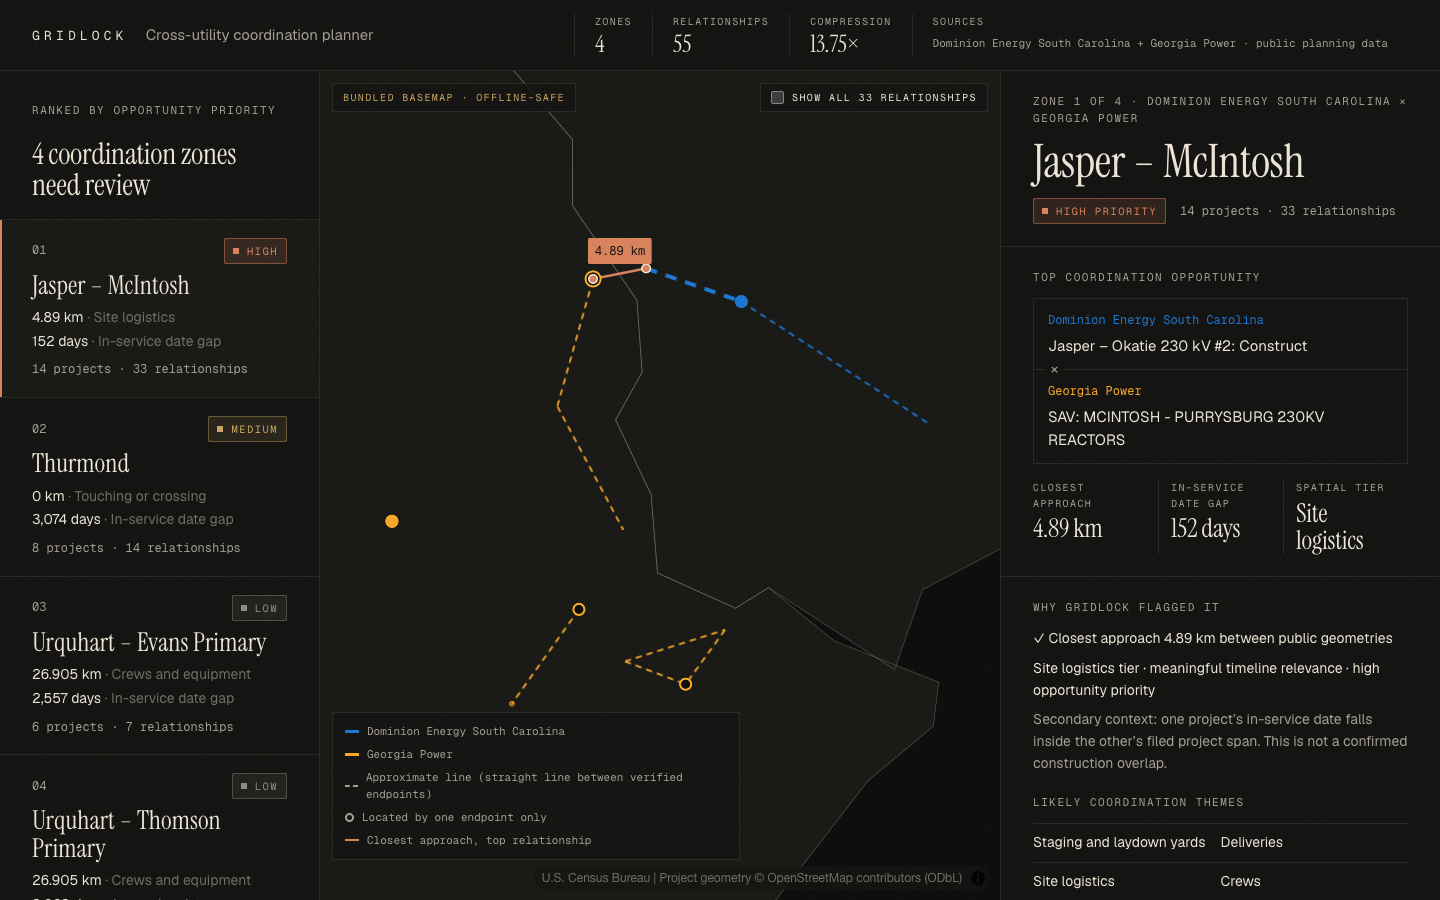
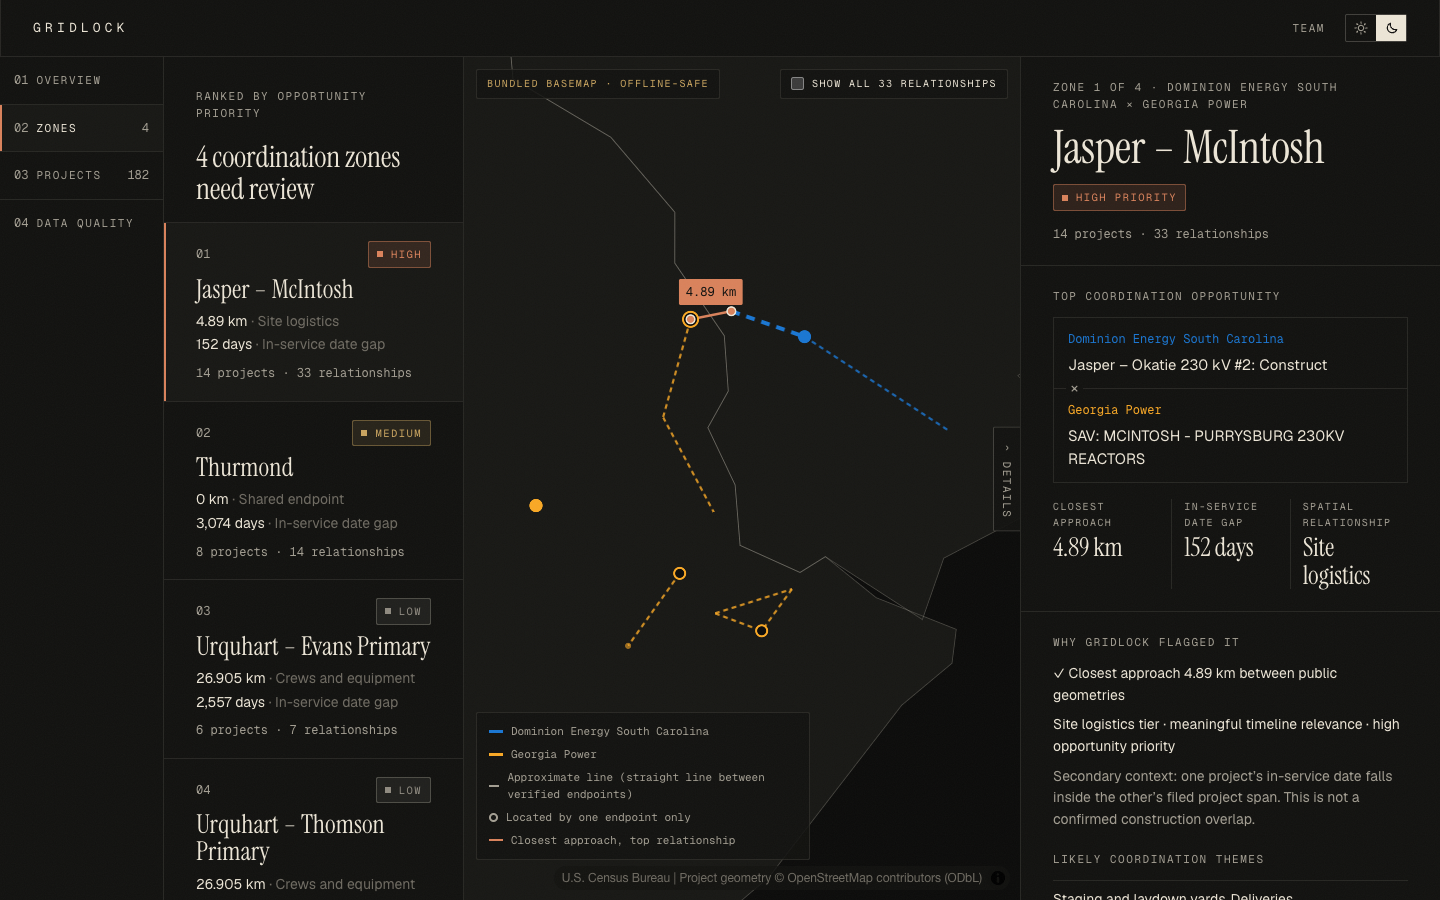
docs: describe the new planner, themes and team page
The demo script follows the planner as it now opens (Overview first,
figures along the bottom, Investigate zone into Zones) and calls
Thurmond a shared endpoint. README and architecture list the planner
views, URL state, themes, site nav and /team. Screenshots are retaken
with the shared navbar.

diff --git a/docs/demo-script.md b/docs/demo-script.md
@@ -24,23 +24,27 @@ terminals:
 
 Point at the **Old way / With GridLock** section as you say it.
 
-## 2. The noisy world (0:20–0:40) — planner, map zoomed out
+## 2. The noisy world (0:20–0:40) — planner Overview
 
-Click **Open coordination planner**, then zoom the map out (scroll or
-pinch) until both states and every faint project line are visible.
+Click **Open coordination planner**. The planner opens on the
+**Overview**: one map of both states with every located project as a
+faint line or dot, and the four coordination zones outlined on top.
 
 > "Every line and dot here is a planned project from Dominion Energy South
 > Carolina or Georgia Power. A map alone doesn't tell a planner where to
 > look."
 
-## 3. Compression (0:40–1:00) — planner header and zone rail
+## 3. Compression (0:40–1:00) — Overview figures
+
+Point at the figures along the bottom of the Overview.
 
 > "Across **182** public projects, GridLock finds **55** cross-utility
 > relationships and compresses them into **4** coordination zones —
 > **13.75×** less to look at. It doesn't give planners more data; it tells
 > them where to look."
 
-Click **Jasper – McIntosh** in the rail; the map flies back to it.
+Click the **01 Jasper – McIntosh** label on the map; its details slide
+out on the right. Click **Investigate zone →** to open it in **Zones**.
 
 ## 4. The strongest opportunity (1:00–1:45) — zone 1
 
@@ -74,11 +78,12 @@ Click the Dominion project in **Top coordination opportunity**.
 
 Press Escape.
 
-## 6. Ranking with judgment (2:30–2:50) — click zone 2, Thurmond
+## 6. Ranking with judgment (2:30–2:50) — click zone 2, Thurmond, in the rail
 
-> "Thurmond is where two projects physically touch — **0 km** — but their
-> dates are **3,074 days** apart, so it ranks below the timely Savannah
-> zone instead of crowding it out."
+> "Thurmond is where two projects share an endpoint — both end at
+> Thurmond Substation, **0 km** apart — but their dates are **3,074 days**
+> apart, so it ranks below the timely Savannah zone instead of crowding
+> it out."
 
 ## 7. Close (2:50–3:00)
 
@@ -90,3 +95,6 @@ Press Escape.
   zones and distances are unaffected.
 - **"GridLock data is unavailable"** — the API is not running or is on a
   different port; see the README's troubleshooting section.
+- **Wrong theme for the room** — the sun / moon switch at the top right
+  changes light and dark; the browser remembers the choice. Dark is the
+  default.

diff --git a/docs/architecture.md b/docs/architecture.md
@@ -69,5 +69,17 @@ uses camelCase through a Pydantic alias generator.
   `payload.metadata.labels`.
 - `src/lib/mapData.ts` turns the payload into GeoJSON; it only decides
   emphasis (top pair, zone, background), never analysis.
-- `src/components/planner/` holds the zone rail, MapLibre map, zone
-  panel, timeline and evidence drawer.
+- `src/components/planner/` holds the planner: a section nav and four
+  views (Overview, Zones, Projects, Data quality) under
+  `components/planner/views/`, plus the zone rail, both MapLibre maps,
+  zone panel, timeline and evidence drawer. The view and selected zone
+  live in the URL (`?view=zones&zone=ZONE-01`, `src/lib/plannerState.ts`).
+- `src/lib/presentation.ts` re-expresses backend results for display
+  (location status, "Shared endpoint" when both projects end at the same
+  matched feature, priority counts); it never classifies or ranks.
+- `src/lib/mapBase.ts` creates both maps: the online style for the
+  current theme, the bundled fallback, and restyling on a theme change.
+- Light and dark themes share one set of CSS tokens in
+  `src/app/globals.css`; `[data-theme="light"]` only changes values.
+  `src/lib/themeScript.ts` applies the stored choice before first paint,
+  and `components/shared/SiteNav.tsx` is the one header on every page.

diff --git a/README.md b/README.md
@@ -112,8 +112,10 @@ GridLock/
 │   ├── review/               unresolved endpoints, oracle comparisons
 │   └── output/               relationships, gridlock.json, metrics.json
 ├── frontend/
-│   ├── src/app/              `/` landing and `/planner`
-│   ├── src/components/       zone rail, map, panel, timeline, evidence drawer
+│   ├── src/app/              `/` landing, `/planner` and `/team`
+│   ├── src/components/       planner views (overview, zones, projects, data
+│   │                         quality), maps, evidence drawer, site nav
+│   ├── src/content/team.ts   the people listed on `/team`
 │   ├── src/lib/contract.ts   generated from the backend models
 │   └── public/data/          bundled Census state boundaries (offline map)
 └── docs/                     the documents listed above
